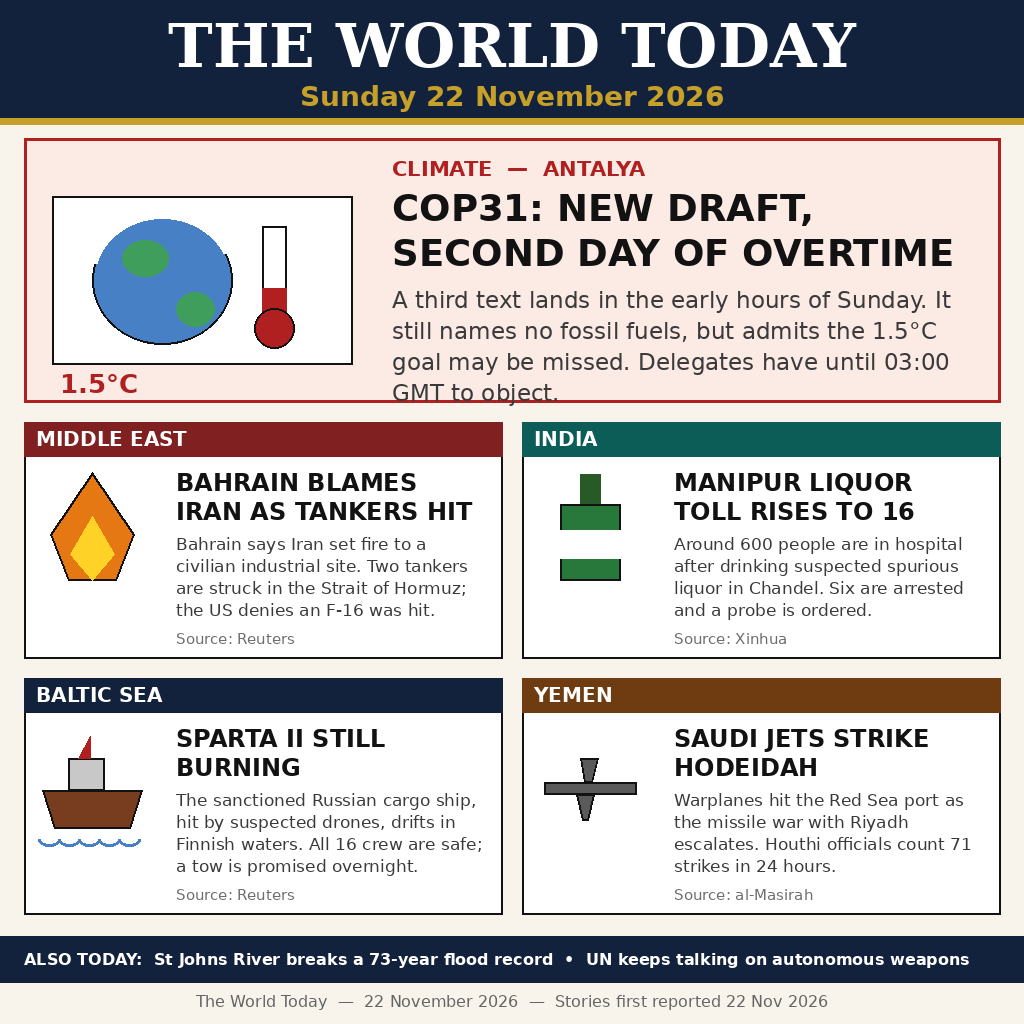
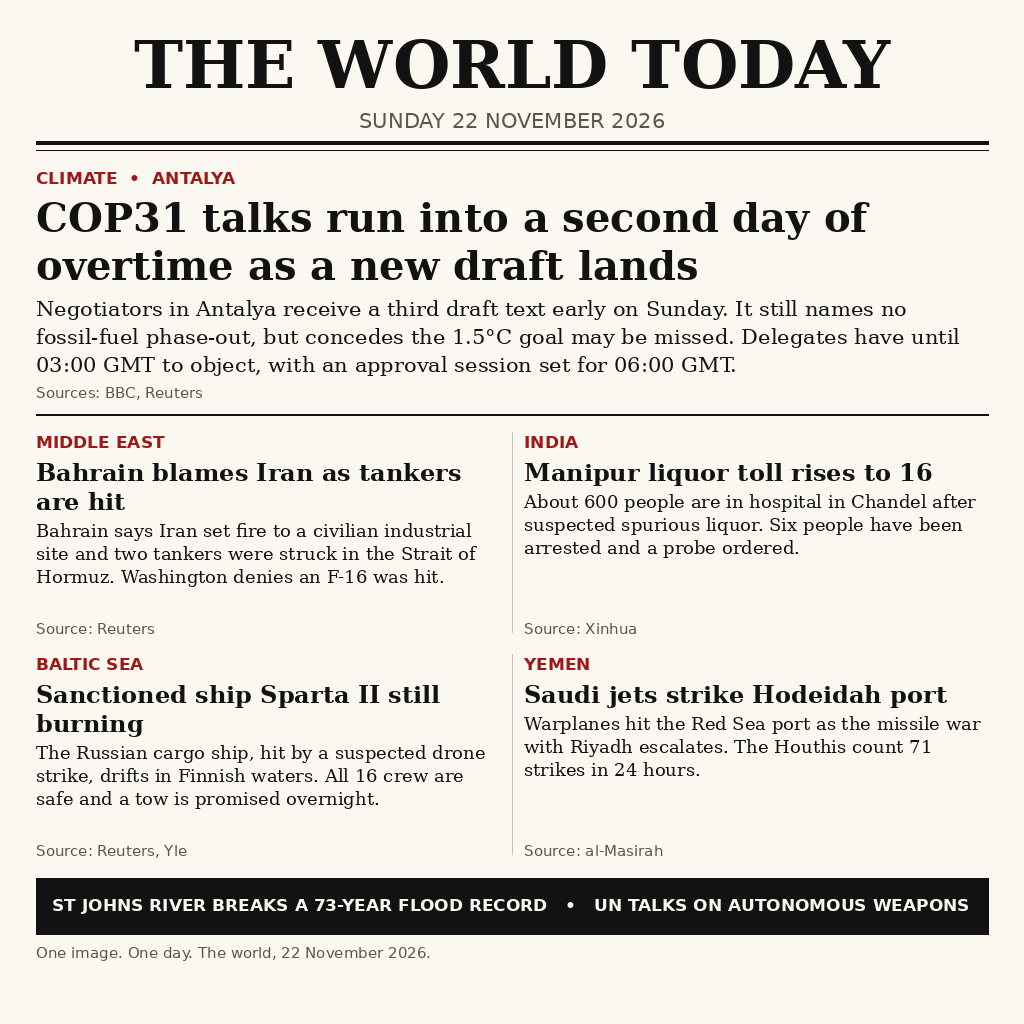
Rewrite poster code from scratch — The World Today, 22 November 2026

diff --git a/draw.py b/draw.py
@@ -1,187 +1,160 @@
 #!/usr/bin/env python3
-"""Draw the 22 November 2026 front page for news-image-20261122.
+"""Draw "The World Today" — Sunday 22 November 2026.
 
-PIL only, no photos, no network. The committed entry.png is what the
-grader copies. Stories are the day's news as reported on Sunday
-22 November 2026 (checked via BBC, Reuters, Xinhua, Yle and the
-22 Nov digests): COP31's new draft and second overtime day; Bahrain
-blaming Iran for an industrial-site fire with two tankers hit in the
-Strait of Hormuz; the Manipur spurious-liquor toll rising to 16;
-the Sparta II still burning in the Gulf of Finland; and Saudi
-strikes on Hodeidah. Ticker: record flooding on Florida's St Johns
-River, and UN states agreeing to keep talking on autonomous weapons.
+A newspaper front page summarising the day's world news, rendered with PIL.
+Deterministic: fixed layout, fixed fonts, no timestamps, no randomness.
+Run:  python3 draw.py   (writes entry.png next to this file)
 """
-import math
+
+import os
 import textwrap
 
 from PIL import Image, ImageDraw, ImageFont
 
-SIZE = (1024, 1024)
-PAPER = (248, 244, 235)
+HERE = os.path.dirname(os.path.abspath(__file__))
+OUT = os.path.join(HERE, "entry.png")
+
+W, H = 1024, 1024
+PAPER = (250, 248, 240)
 INK = (18, 18, 18)
-GREY = (58, 58, 58)
-NAVY = (18, 34, 60)
-GOLD = (198, 160, 40)
-CRIMSON = (176, 32, 32)
-TEAL = (12, 92, 88)
-SKYBLUE = (72, 128, 198)
-LEAD_FILL = (252, 234, 228)
+RULE = (18, 18, 18)
+ACCENT = (158, 24, 24)
+MUTED = (90, 86, 78)
+TICKER_BG = (18, 18, 18)
+TICKER_FG = (250, 248, 240)
 
-SERIF_BOLD = "/usr/share/fonts/truetype/dejavu/DejaVuSerif-Bold.ttf"
-SANS_BOLD = "/usr/share/fonts/truetype/dejavu/DejaVuSans-Bold.ttf"
-SANS_REG = "/usr/share/fonts/truetype/dejavu/DejaVuSans.ttf"
+FONT_DIR = "/usr/share/fonts/truetype/dejavu"
 
 
-def load(path, size):
-    return ImageFont.truetype(path, size)
+def font(name, size):
+    return ImageFont.truetype(os.path.join(FONT_DIR, name), size)
 
 
-def wrap(draw, text, font, width):
-    out, line = [], ""
-    for word in text.split():
-        trial = (line + " " + word).strip()
-        if draw.textlength(trial, font=font) <= width:
-            line = trial
-        else:
-            if line:
-                out.append(line)
-            line = word
-    if line:
-        out.append(line)
-    return out
+F_MASTHEAD = font("DejaVuSerif-Bold.ttf", 66)
+F_DATE = font("DejaVuSans.ttf", 21)
+F_LEAD_HEAD = font("DejaVuSerif-Bold.ttf", 40)
+F_LEAD_BODY = font("DejaVuSerif.ttf", 21)
+F_KICKER = font("DejaVuSans-Bold.ttf", 17)
+F_HEAD = font("DejaVuSerif-Bold.ttf", 24)
+F_BODY = font("DejaVuSerif.ttf", 18)
+F_SOURCE = font("DejaVuSans.ttf", 15)
+F_TICKER = font("DejaVuSans-Bold.ttf", 17)
 
 
-def block(draw, x, y, text, font, fill, width, leading):
-    for ln in wrap(draw, text, font, width):
-        draw.text((x, y), ln, font=font, fill=fill)
+def wrap(draw, text, fnt, max_w):
+    """Greedy word wrap using the real rendered width of each word."""
+    lines = []
+    for para in text.split("\n"):
+        words = para.split()
+        cur = ""
+        for word in words:
+            trial = (cur + " " + word).strip()
+            if draw.textlength(trial, font=fnt) <= max_w or not cur:
+                cur = trial
+            else:
+                lines.append(cur)
+                cur = word
+        if cur:
+            lines.append(cur)
+    return lines
+
+
+def draw_para(draw, x, y, text, fnt, max_w, leading, color=INK):
+    """Draw wrapped text; return the y coordinate just below the last line."""
+    for line in wrap(draw, text, fnt, max_w):
+        draw.text((x, y), line, font=fnt, fill=color)
         y += leading
     return y
 
 
-def center(draw, cx, y, text, font, fill):
-    draw.text((cx - draw.textlength(text, font=font) / 2, y), text,
-              font=font, fill=fill)
+def rule(draw, x0, y, x1, width=2):
+    draw.line([(x0, y), (x1, y)], fill=RULE, width=width)
 
 
 def main():
-    img = Image.new("RGB", SIZE, PAPER)
+    img = Image.new("RGB", (W, H), PAPER)
     d = ImageDraw.Draw(img)
+    mx = 36  # side margin
+    right = W - mx
 
-    # Masthead
-    d.rectangle([0, 0, 1024, 118], fill=NAVY)
-    center(d, 512, 10, "THE WORLD TODAY", load(SERIF_BOLD, 60),
-           (255, 255, 255))
-    center(d, 512, 80, "Sunday 22 November 2026", load(SANS_BOLD, 28), GOLD)
-    d.rectangle([0, 118, 1024, 124], fill=GOLD)
+    # ---- Masthead ----
+    title = "THE WORLD TODAY"
+    tw = d.textlength(title, font=F_MASTHEAD)
+    d.text(((W - tw) / 2, 26), title, font=F_MASTHEAD, fill=INK)
+    date = "SUNDAY 22 NOVEMBER 2026"
+    dw = d.textlength(date, font=F_DATE)
+    d.text(((W - dw) / 2, 108), date, font=F_DATE, fill=MUTED)
+    rule(d, mx, 142, right, 4)
+    rule(d, mx, 150, right, 1)
 
-    # Lead story: COP31, with a globe-and-thermometer sketch
-    d.rectangle([24, 138, 1000, 402], fill=LEAD_FILL, outline=CRIMSON,
-                width=3)
-    d.rectangle([52, 196, 352, 364], fill=(255, 255, 255), outline=INK,
-                width=2)
-    d.ellipse([92, 216, 232, 344], fill=SKYBLUE, outline=INK, width=2)
-    d.ellipse([122, 240, 168, 276], fill=(64, 158, 92))
-    d.ellipse([176, 292, 214, 326], fill=(64, 158, 92))
-    d.arc([92, 216, 232, 344], 195, 335, fill=(255, 255, 255), width=3)
-    d.rectangle([262, 226, 286, 316], fill=(255, 255, 255), outline=INK,
-                width=2)
-    d.rectangle([262, 288, 286, 316], fill=CRIMSON)
-    d.ellipse([254, 308, 294, 348], fill=CRIMSON, outline=INK, width=2)
-    d.text((60, 368), "1.5\u00b0C", font=load(SANS_BOLD, 26), fill=CRIMSON)
-    tx = 392
-    d.text((tx, 156), "CLIMATE  \u2014  ANTALYA", font=load(SANS_BOLD, 21),
-           fill=CRIMSON)
-    y = block(d, tx, 186, "COP31: NEW DRAFT, SECOND DAY OF OVERTIME",
-              load(SANS_BOLD, 37), INK, 580, 45)
-    block(d, tx, y + 10,
-          "A third text lands in the early hours of Sunday. It still "
-          "names no fossil fuels, but admits the 1.5\u00b0C goal may be "
-          "missed. Delegates have until 03:00 GMT to object.",
-          load(SANS_REG, 23), GREY, 580, 31)
+    # ---- Lead story: COP31 ----
+    y = 168
+    d.text((mx, y), "CLIMATE  •  ANTALYA", font=F_KICKER, fill=ACCENT)
+    y += 26
+    y = draw_para(d, mx, y,
+                  "COP31 talks run into a second day of overtime as a new draft lands",
+                  F_LEAD_HEAD, right - mx, 48)
+    y += 6
+    y = draw_para(d, mx, y,
+                  "Negotiators in Antalya receive a third draft text early on Sunday. "
+                  "It still names no fossil-fuel phase-out, but concedes the 1.5°C goal "
+                  "may be missed. Delegates have until 03:00 GMT to object, with an "
+                  "approval session set for 06:00 GMT.",
+                  F_LEAD_BODY, right - mx, 28)
+    y += 4
+    d.text((mx, y), "Sources: BBC, Reuters", font=F_SOURCE, fill=MUTED)
+    y += 30
+    rule(d, mx, y, right, 2)
 
-    # Four panels, two rows of two
-    stories = [
-        ("MIDDLE EAST", (128, 32, 32), "BAHRAIN BLAMES IRAN AS TANKERS HIT",
-         "Bahrain says Iran set fire to a civilian industrial site. "
-         "Two tankers are struck in the Strait of Hormuz; the US "
-         "denies an F-16 was hit.", "flame"),
-        ("INDIA", (12, 92, 88), "MANIPUR LIQUOR TOLL RISES TO 16",
-         "Around 600 people are in hospital after drinking suspected "
-         "spurious liquor in Chandel. Six are arrested and a probe "
-         "is ordered.", "bottle"),
-        ("BALTIC SEA", (18, 34, 60), "SPARTA II STILL BURNING",
-         "The sanctioned Russian cargo ship, hit by suspected drones, "
-         "drifts in Finnish waters. All 16 crew are safe; a tow is "
-         "promised overnight.", "ship"),
-        ("YEMEN", (110, 60, 16), "SAUDI JETS STRIKE HODEIDAH",
-         "Warplanes hit the Red Sea port as the missile war with "
-         "Riyadh escalates. Houthi officials count 71 strikes in "
-         "24 hours.", "plane"),
+    # ---- Four panels, 2 x 2 ----
+    gap = 24
+    col_w = (right - mx - gap) // 2
+    row_h = 208
+    top = y + 18
+    panels = [
+        ("MIDDLE EAST", "Bahrain blames Iran as tankers are hit",
+         "Bahrain says Iran set fire to a civilian industrial site and two "
+         "tankers were struck in the Strait of Hormuz. Washington denies an "
+         "F-16 was hit.", "Reuters"),
+        ("INDIA", "Manipur liquor toll rises to 16",
+         "About 600 people are in hospital in Chandel after suspected "
+         "spurious liquor. Six people have been arrested and a probe ordered.",
+         "Xinhua"),
+        ("BALTIC SEA", "Sanctioned ship Sparta II still burning",
+         "The Russian cargo ship, hit by a suspected drone strike, drifts in "
+         "Finnish waters. All 16 crew are safe and a tow is promised overnight.",
+         "Reuters, Yle"),
+        ("YEMEN", "Saudi jets strike Hodeidah port",
+         "Warplanes hit the Red Sea port as the missile war with Riyadh "
+         "escalates. The Houthis count 71 strikes in 24 hours.",
+         "al-Masirah"),
     ]
-    pw, ph, gap = 478, 236, 20
-    for i, (tag, colour, head, body, art) in enumerate(stories):
-        x = 24 + (i % 2) * (pw + gap)
-        y = 422 + (i // 2) * (ph + gap)
-        d.rectangle([x, y, x + pw, y + ph], fill=(255, 255, 255),
-                    outline=INK, width=2)
-        d.rectangle([x, y, x + pw, y + 34], fill=colour)
-        d.text((x + 12, y + 5), tag, font=load(SANS_BOLD, 20),
-               fill=(255, 255, 255))
-        ax, ay = x + 14, y + 50
-        if art == "flame":
-            d.polygon([(ax + 54, ay), (ax + 96, ay + 62), (ax + 78, ay + 108),
-                       (ax + 30, ay + 108), (ax + 12, ay + 62)],
-                      fill=(230, 120, 20), outline=INK, width=2)
-            d.polygon([(ax + 54, ay + 44), (ax + 76, ay + 82),
-                       (ax + 54, ay + 108), (ax + 32, ay + 82)],
-                      fill=(255, 210, 40))
-        elif art == "bottle":
-            d.rectangle([ax + 44, ay + 2, ax + 64, ay + 32], fill=(40, 90, 40))
-            d.rectangle([ax + 24, ay + 32, ax + 84, ay + 108],
-                        fill=(40, 120, 60), outline=INK, width=2)
-            d.rectangle([ax + 24, ay + 58, ax + 84, ay + 86], fill=(255, 255, 255))
-        elif art == "ship":
-            d.polygon([(ax + 4, ay + 62), (ax + 104, ay + 62),
-                       (ax + 92, ay + 100), (ax + 16, ay + 100)],
-                      fill=(120, 60, 30), outline=INK, width=2)
-            d.rectangle([ax + 30, ay + 30, ax + 66, ay + 62],
-                        fill=(200, 200, 200), outline=INK, width=2)
-            d.polygon([(ax + 40, ay + 30), (ax + 52, ay + 8),
-                       (ax + 52, ay + 30)], fill=CRIMSON)
-            for wx in (ax, ax + 20, ax + 40, ax + 60, ax + 80):
-                d.arc([wx, ay + 104, wx + 22, ay + 118], 0, 180,
-                      fill=SKYBLUE, width=3)
-        else:  # plane
-            d.polygon([(ax + 8, ay + 54), (ax + 100, ay + 54),
-                       (ax + 100, ay + 66), (ax + 8, ay + 66)],
-                      fill=(90, 90, 90), outline=INK, width=2)
-            d.polygon([(ax + 44, ay + 30), (ax + 62, ay + 30),
-                       (ax + 56, ay + 54), (ax + 48, ay + 54)],
-                      fill=(90, 90, 90), outline=INK, width=2)
-            d.polygon([(ax + 40, ay + 66), (ax + 58, ay + 66),
-                       (ax + 52, ay + 92), (ax + 46, ay + 92)],
-                      fill=(90, 90, 90), outline=INK, width=2)
-        tx = x + 152
-        block(d, tx, y + 46, head, load(SANS_BOLD, 24), INK, 312, 29)
-        block(d, tx, y + 112, body, load(SANS_REG, 17), GREY, 312, 22)
-        d.text((tx, y + ph - 28), "Source: " +
-               ("Reuters" if i in (0, 2) else
-                "Xinhua" if i == 1 else "al-Masirah"),
-               font=load(SANS_REG, 15), fill=(110, 110, 110))
+    for i, (kicker, head, body, src) in enumerate(panels):
+        px = mx + (i % 2) * (col_w + gap)
+        py = top + (i // 2) * (row_h + 14)
+        d.text((px, py), kicker, font=F_KICKER, fill=ACCENT)
+        hy = py + 26
+        hy = draw_para(d, px, hy, head, F_HEAD, col_w, 29)
+        hy += 4
+        hy = draw_para(d, px, hy, body, F_BODY, col_w, 23)
+        d.text((px, py + row_h - 20), "Source: " + src,
+               font=F_SOURCE, fill=MUTED)
+        if i % 2 == 0:
+            d.line([(px + col_w + gap // 2, py),
+                    (px + col_w + gap // 2, py + row_h - 8)],
+                   fill=(200, 196, 186), width=1)
 
-    # Ticker
-    d.rectangle([0, 936, 1024, 982], fill=NAVY)
-    d.text((24, 950),
-           "ALSO TODAY:  St Johns River breaks a 73-year flood record  "
-           "\u2022  UN keeps talking on autonomous weapons",
-           font=load(SANS_BOLD, 16), fill=(255, 255, 255))
-    center(d, 512, 992,
-           "The World Today  \u2014  22 November 2026  \u2014  Stories "
-           "first reported 22 Nov 2026",
-           load(SANS_REG, 16), (100, 100, 100))
+    # ---- Ticker ----
+    ty = top + 2 * row_h + 14 + 16
+    d.rectangle([mx, ty, right, ty + 56], fill=TICKER_BG)
+    ticker = ("ST JOHNS RIVER BREAKS A 73-YEAR FLOOD RECORD"
+              "   •   UN TALKS ON AUTONOMOUS WEAPONS")
+    d.text((mx + 16, ty + 17), ticker, font=F_TICKER, fill=TICKER_FG)
+    d.text((mx, ty + 66), "One image. One day. The world, 22 November 2026.",
+           font=F_SOURCE, fill=MUTED)
 
-    img.save("entry.png", "PNG")
-    print("saved entry.png", img.size)
+    img.save(OUT, "PNG")
+    print("wrote", OUT)
 
 
 if __name__ == "__main__":

diff --git a/main.py b/main.py
@@ -1,27 +1,33 @@
 #!/usr/bin/env python3
-"""Entry point for news-image-20261122.
+"""Copy the committed front-page image into the output directory.
 
-The front page for Sunday 22 November 2026 was drawn in advance by
-draw.py (PIL) and committed as entry.png next to this file. The grader
-runs this program with no network and stdlib only, so all it does is copy
-that committed image to the output directory, byte for byte, every time.
+The entry image is produced by draw.py and committed as entry.png.
+This program just places a copy where the grader expects it:
+the directory named by MAKEFUN_OUTPUT_DIR (or "output" when unset).
+Standard library only.
 """
+
 import os
 import shutil
 import sys
 
+HERE = os.path.dirname(os.path.abspath(__file__))
+SRC = os.path.join(HERE, "entry.png")
+
 
 def main():
-    here = os.path.dirname(os.path.abspath(__file__))
-    source = os.path.join(here, "entry.png")
-    if not os.path.isfile(source):
-        print("missing committed entry.png next to main.py", file=sys.stderr)
+    if not os.path.isfile(SRC):
+        print("entry.png not found next to main.py; run draw.py first",
+              file=sys.stderr)
         return 1
-    out_dir = os.environ.get("MAKEFUN_OUTPUT_DIR", "output")
+    out_dir = os.environ.get("MAKEFUN_OUTPUT_DIR") or "output"
+    if not os.path.isabs(out_dir):
+        out_dir = os.path.join(os.getcwd(), out_dir)
     os.makedirs(out_dir, exist_ok=True)
-    target = os.path.join(out_dir, "entry.png")
-    shutil.copyfile(source, target)
-    print("wrote", target)
+    dest = os.path.join(out_dir, "entry.png")
+    shutil.copyfile(SRC, dest)
+    print("copied entry.png (%d bytes) to %s"
+          % (os.path.getsize(dest), dest))
     return 0
 
 

diff --git a/README.md b/README.md
@@ -4,7 +4,15 @@
 [![rank](https://make.fun/badge/news-image-20261122/0xk1xHunter/news-image-20261122/rank.svg)](https://make.fun/bounty/news-image-20261122/leaderboard?utm_source=github&utm_medium=readme&utm_campaign=news-image-20261122)
 [![reward](https://make.fun/badge/news-image-20261122/0xk1xHunter/news-image-20261122/reward.svg)](https://make.fun/bounty/news-image-20261122?utm_source=github&utm_medium=readme&utm_campaign=news-image-20261122)
 
-The World Today — Sunday 22 November 2026: one image summing up the day's news. COP31's third draft lands in the early hours of Sunday and talks run into a second day of overtime in Antalya, still naming no fossil fuels but admitting the 1.5°C goal may be missed; Bahrain blames Iran for an industrial-site fire as two tankers are hit in the Strait of Hormuz; the Manipur spurious-liquor toll rises to 16 with around 600 people in hospital; the sanctioned Russian cargo ship Sparta II keeps burning in the Gulf of Finland with its 16 crew safe and a tow promised overnight; and Saudi warplanes strike Hodeidah as the missile war with Riyadh escalates — plus a record flood on Florida's St Johns River and UN talks on autonomous weapons in the ticker. Drawn with PIL (`draw.py`); `main.py` copies the committed image to the output directory.
+The World Today — Sunday 22 November 2026: one image summing up the day's news. COP31 in Antalya runs into a second day of overtime over a draft that still avoids naming fossil fuels; Bahrain blames Iran after two tankers are hit in the Strait of Hormuz; the death toll from spurious liquor in Manipur reaches 16; the sanctioned Russian ship Sparta II keeps burning in the Baltic; and Saudi jets strike Hodeidah as the war with the Houthis escalates. The ticker notes a 73-year flood record on the St Johns River and the UN's continuing talks on autonomous weapons. Drawn with PIL (`draw.py`); `main.py` copies the committed image to the output directory.
+
+## Stories
+
+- COP31 — climate talks in Antalya go into overtime over a new draft text.
+- Middle East — Bahrain blames Iran after tankers are struck in the Strait of Hormuz.
+- India — the Manipur spurious-liquor toll reaches 16 dead.
+- Baltic Sea — the sanctioned ship Sparta II keeps burning off Finland.
+- Yemen — Saudi jets strike the port of Hodeidah.
 
 ## Run it
 
